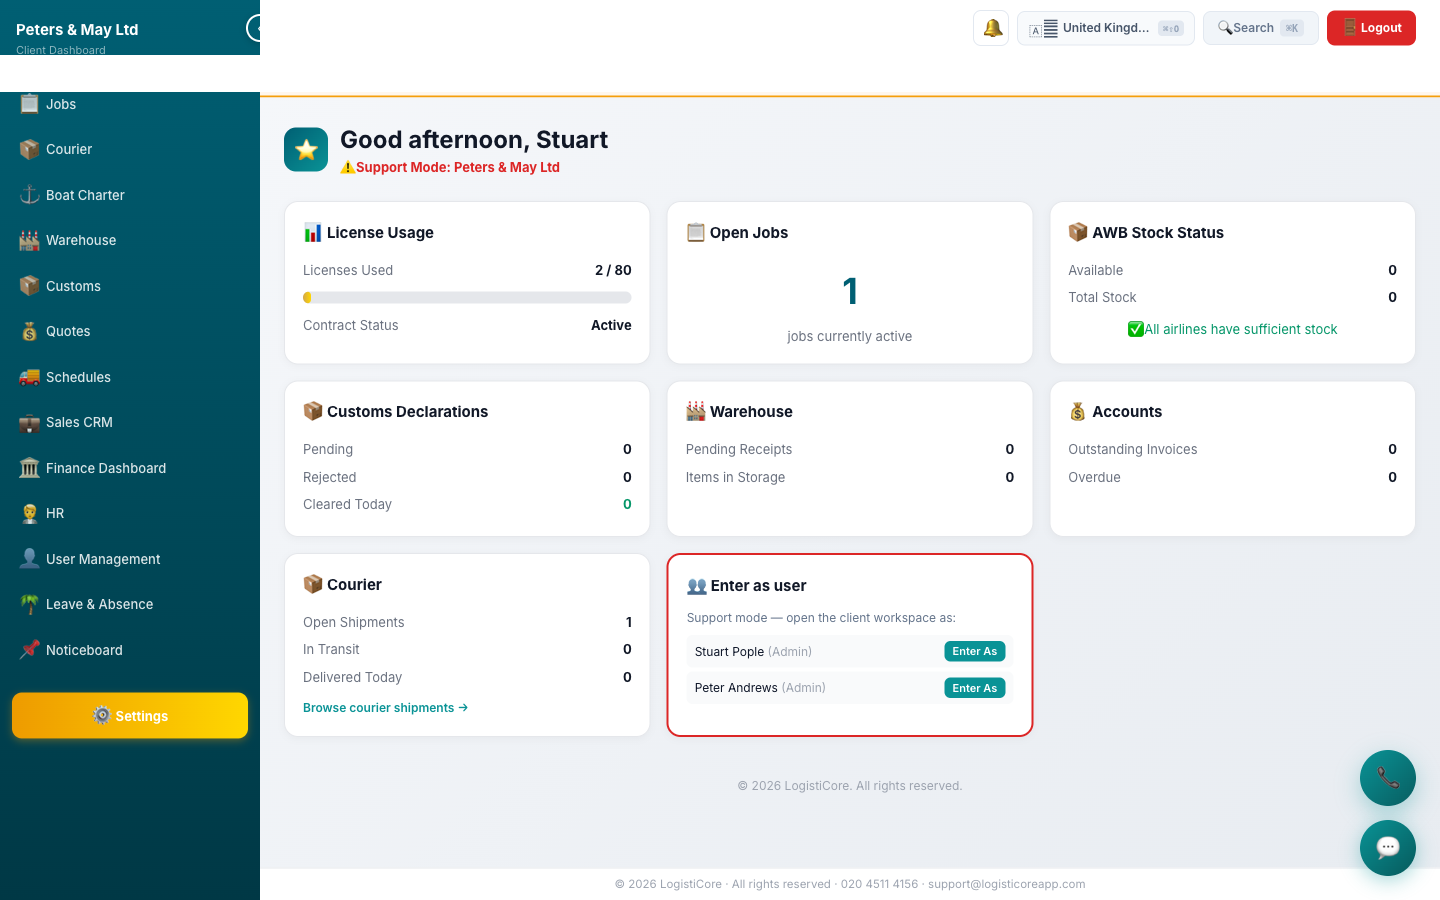
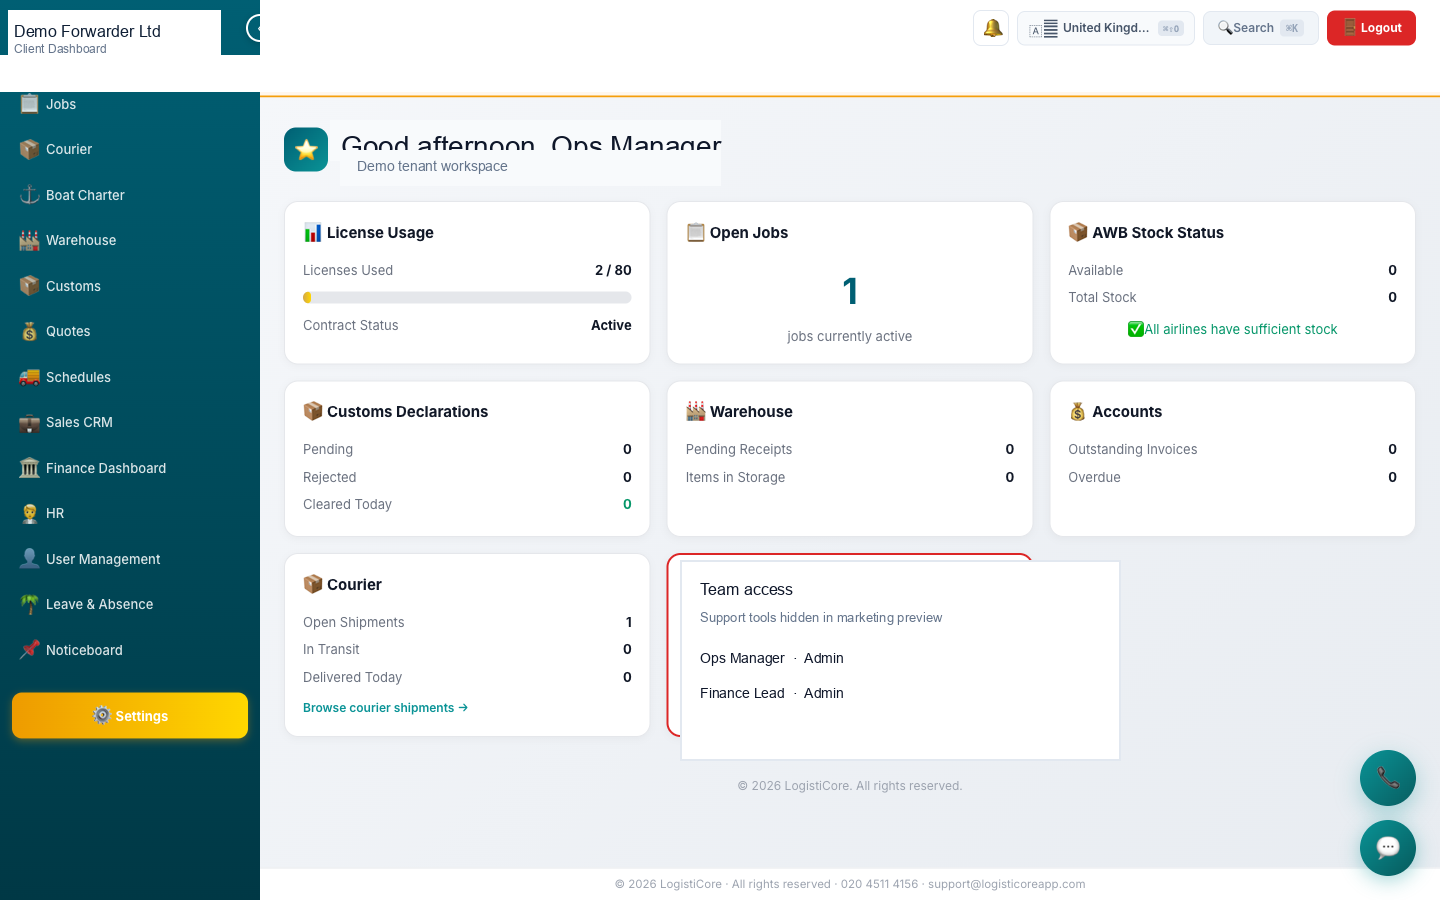
Scrub tour PII and add finance, portal, warehouse, drivers and mobile.
Remove real names from dashboard and jobs screenshots, expand the public product tour with the major modules buyers ask about, and point CTAs at booking a demo.

diff --git a/product-tour.html b/product-tour.html
@@ -253,9 +253,9 @@
     <section class="tour-hero">
         <div class="eyebrow">Product tour</div>
         <h1>LogistiCore <span>in the wild</span></h1>
-        <p class="lede">Real tenant screens — jobs, customs, sanctions, dashboards and AI — the bits forwarders actually sell against.</p>
+        <p class="lede">Jobs, customs, finance, warehouse, drivers, client portal and mobile — the modules buyers ask for before they book a demo.</p>
         <div class="cta-row">
-            <a href="contact.html?enquiry=saas&amp;intent=preorder" class="btn btn-primary">Request onboarding</a>
+            <a href="contact.html?enquiry=saas&amp;intent=demo" class="btn btn-primary">Book a 20-minute demo</a>
             <a href="logisticore-saas.html#features" class="btn btn-secondary">See all 200+ features</a>
         </div>
     </section>
@@ -324,6 +324,86 @@
         </div>
     </section>
 
+    <section class="tour-scene" id="finance">
+        <div class="browser-frame">
+            <div class="browser-chrome">
+                <span></span><span></span><span></span>
+                <div class="browser-url">app.logisticoreapp.com/app/ops/finance</div>
+            </div>
+            <img src="assets/img/product/finance.png" alt="Finance command centre with invoices, bills and VAT return figures" width="1440" height="900" loading="lazy">
+        </div>
+        <div class="scene-copy">
+            <div class="scene-label">Finance</div>
+            <h2>A full finance package — not a bolt-on</h2>
+            <p>Sales invoices, supplier bills, VAT returns and bank reconciliation live in the same tenant as the jobs. UK MTD-ready figures without a second accounting silo.</p>
+            <span class="scene-benefit">Cash, VAT and jobs in one ledger story</span>
+        </div>
+    </section>
+
+    <section class="tour-scene" id="portal">
+        <div class="browser-frame">
+            <div class="browser-chrome">
+                <span></span><span></span><span></span>
+                <div class="browser-url">app.logisticoreapp.com/portal</div>
+            </div>
+            <img src="assets/img/product/client-portal.png" alt="White-label client portal showing customer shipments and invoices" width="1440" height="900" loading="lazy">
+        </div>
+        <div class="scene-copy">
+            <div class="scene-label">Client portal</div>
+            <h2>Give your customers their own window</h2>
+            <p>White-label portal for tracking, documents, invoices and warehouse holds — so your desk stops answering “where is my cargo?” all day.</p>
+            <span class="scene-benefit">Self-serve customers, quieter phones</span>
+        </div>
+    </section>
+
+    <section class="tour-scene" id="warehouse">
+        <div class="browser-frame">
+            <div class="browser-chrome">
+                <span></span><span></span><span></span>
+                <div class="browser-url">app.logisticoreapp.com/app/ops/warehouse</div>
+            </div>
+            <img src="assets/img/product/warehouse.png" alt="Warehouse on-hand stock board linked to freight jobs" width="1440" height="900" loading="lazy">
+        </div>
+        <div class="scene-copy">
+            <div class="scene-label">Warehouse</div>
+            <h2>Bonded and free stock on the same job file</h2>
+            <p>Inbound, on-hand, bonded lots and picks share job numbers with ops and customs — no parallel spreadsheet for the shed.</p>
+            <span class="scene-benefit">Floor to declaration without re-keying</span>
+        </div>
+    </section>
+
+    <section class="tour-scene" id="drivers">
+        <div class="browser-frame">
+            <div class="browser-chrome">
+                <span></span><span></span><span></span>
+                <div class="browser-url">app.logisticoreapp.com/app/ops/drivers</div>
+            </div>
+            <img src="assets/img/product/drivers-dispatch.png" alt="Driver dispatch board with runs, vehicles and POD status" width="1440" height="900" loading="lazy">
+        </div>
+        <div class="scene-copy">
+            <div class="scene-label">Drivers</div>
+            <h2>Dispatch, POD and exceptions on the job</h2>
+            <p>Collections and deliveries assigned to drivers with status and proof of delivery flowing straight back into the shipment record.</p>
+            <span class="scene-benefit">Road moves your ops team can see live</span>
+        </div>
+    </section>
+
+    <section class="tour-scene" id="mobile">
+        <div class="browser-frame">
+            <div class="browser-chrome">
+                <span></span><span></span><span></span>
+                <div class="browser-url">LogistiCore mobile · driver &amp; warehouse</div>
+            </div>
+            <img src="assets/img/product/mobile-app.png" alt="LogistiCore mobile app for driver runs, POD capture and warehouse scanning" width="1440" height="900" loading="lazy">
+        </div>
+        <div class="scene-copy">
+            <div class="scene-label">Mobile app</div>
+            <h2>Drivers and warehouse on their phones</h2>
+            <p>Navigate stops, capture POD, raise exceptions and scan putaway — without calling the desk for every update.</p>
+            <span class="scene-benefit">Hands on the floor, data in the system</span>
+        </div>
+    </section>
+
     <section class="tour-scene" id="dashboard">
         <div class="browser-frame">
             <div class="browser-chrome">
@@ -357,10 +437,10 @@
     </section>
 
     <section class="tour-cta">
-        <h2>Ready to put this on your desk?</h2>
-        <p>Onboarding for forwarders, brokers and 3PLs who want one platform — not another spreadsheet stack.</p>
+        <h2>Want a walkthrough on your lanes?</h2>
+        <p>Book a short demo — we’ll show finance, portal, warehouse, drivers and customs on your kind of freight.</p>
         <div class="cta-row">
-            <a href="contact.html?enquiry=saas&amp;intent=preorder" class="btn btn-primary">Request onboarding</a>
+            <a href="contact.html?enquiry=saas&amp;intent=demo" class="btn btn-primary">Book a 20-minute demo</a>
             <a href="pricing.html" class="btn btn-secondary">See pricing</a>
             <a href="contact.html?enquiry=saas" class="btn btn-tertiary">Talk to sales</a>
         </div>

diff --git a/logisticore-saas.html b/logisticore-saas.html
@@ -629,7 +629,7 @@
         <h1>One Platform.<br><span class="gold">Every Freight Workflow.</span><br><span class="teal">Zero Compromises.</span></h1>
         <p class="hero-sub">LogistiCore SaaS is the all-in-one freight forwarding platform for international logistics companies. Jobs, documents, accounting, rates, tracking, CRM, warehouse, compliance, and AI &mdash; plus integrated UK customs through HMRC CDS. UK-headquartered, built for teams worldwide.</p>
         <div style="display:flex; gap:1rem; justify-content:center; flex-wrap:wrap; position:relative;">
-            <a href="contact.html?enquiry=saas&amp;intent=preorder" class="btn btn-primary" style="padding:0.8rem 2rem; font-size:1.05rem;">Request onboarding</a>
+            <a href="contact.html?enquiry=saas&amp;intent=demo" class="btn btn-primary" style="padding:0.8rem 2rem; font-size:1.05rem;">Book a 20-minute demo</a>
             <a href="product-tour.html" class="btn btn-secondary" style="padding:0.8rem 2rem; font-size:1.05rem;">Take the product tour</a>
             <a href="#features" class="btn btn-tertiary" style="padding:0.8rem 2rem; font-size:1.05rem;">See All Features &darr;</a>
         </div>
@@ -699,44 +699,44 @@
                     <p>Every shipment mode on one ops desk.</p>
                 </div>
             </a>
-            <a class="inside-card" href="product-tour.html#zero-touch">
-                <img src="assets/img/product/zero-touch.png" alt="Zero-Touch customs document upload" width="720" height="450" loading="lazy">
+            <a class="inside-card" href="product-tour.html#finance">
+                <img src="assets/img/product/finance.png" alt="Finance package with invoices and VAT" width="720" height="450" loading="lazy">
                 <div class="copy">
-                    <div class="tag">Automation</div>
-                    <h3>Zero-Touch</h3>
-                    <p>Invoice PDF to declaration without re-keying.</p>
+                    <div class="tag">Finance</div>
+                    <h3>Finance package</h3>
+                    <p>Invoices, bills, VAT and bank rec with the jobs.</p>
                 </div>
             </a>
-            <a class="inside-card" href="product-tour.html#customs">
-                <img src="assets/img/product/customs-entries.png" alt="Customs entries with HMRC CDS" width="720" height="450" loading="lazy">
+            <a class="inside-card" href="product-tour.html#portal">
+                <img src="assets/img/product/client-portal.png" alt="Online client portal" width="720" height="450" loading="lazy">
                 <div class="copy">
-                    <div class="tag">Customs</div>
-                    <h3>HMRC CDS</h3>
-                    <p>Declarations inside the freight job.</p>
+                    <div class="tag">Portal</div>
+                    <h3>Client portal</h3>
+                    <p>White-label tracking, docs and invoices for customers.</p>
                 </div>
             </a>
-            <a class="inside-card" href="product-tour.html#sanctions">
-                <img src="assets/img/product/sanctions-screen.png" alt="Global party sanctions screen" width="720" height="450" loading="lazy">
+            <a class="inside-card" href="product-tour.html#warehouse">
+                <img src="assets/img/product/warehouse.png" alt="Warehouse on-hand board" width="720" height="450" loading="lazy">
                 <div class="copy">
-                    <div class="tag">Compliance</div>
-                    <h3>Sanctions screen</h3>
-                    <p>OFAC, UK, EU and UN checks that block until cleared.</p>
+                    <div class="tag">Warehouse</div>
+                    <h3>Warehouse</h3>
+                    <p>Bonded and free stock tied to the job file.</p>
                 </div>
             </a>
-            <a class="inside-card" href="product-tour.html#dashboard">
-                <img src="assets/img/product/client-dashboard.png" alt="Client operations dashboard" width="720" height="450" loading="lazy">
+            <a class="inside-card" href="product-tour.html#drivers">
+                <img src="assets/img/product/drivers-dispatch.png" alt="Driver dispatch board" width="720" height="450" loading="lazy">
                 <div class="copy">
-                    <div class="tag">Visibility</div>
-                    <h3>Ops dashboard</h3>
-                    <p>KPIs without hopping between tools.</p>
+                    <div class="tag">Drivers</div>
+                    <h3>Drivers &amp; POD</h3>
+                    <p>Dispatch runs with proof of delivery on the job.</p>
                 </div>
             </a>
-            <a class="inside-card" href="product-tour.html#ai">
-                <img src="assets/img/product/ai-hub.png" alt="AI intelligence hub" width="720" height="450" loading="lazy">
+            <a class="inside-card" href="product-tour.html#mobile">
+                <img src="assets/img/product/mobile-app.png" alt="LogistiCore mobile app" width="720" height="450" loading="lazy">
                 <div class="copy">
-                    <div class="tag">Intelligence</div>
-                    <h3>AI hub</h3>
-                    <p>Assistants where the work already happens.</p>
+                    <div class="tag">Mobile</div>
+                    <h3>Mobile app</h3>
+                    <p>Driver and warehouse tools in the pocket.</p>
                 </div>
             </a>
         </div>

diff --git a/index.html b/index.html
@@ -315,7 +315,7 @@
                     </div>
                     <div class="metric">
                         <strong>See the product</strong>
-                        <span><a href="product-tour.html">Jobs, Zero-Touch, CDS and sanctions screens →</a></span>
+                        <span><a href="product-tour.html">Finance, portal, warehouse, drivers and mobile →</a></span>
                     </div>
                 </aside>
             </div>
